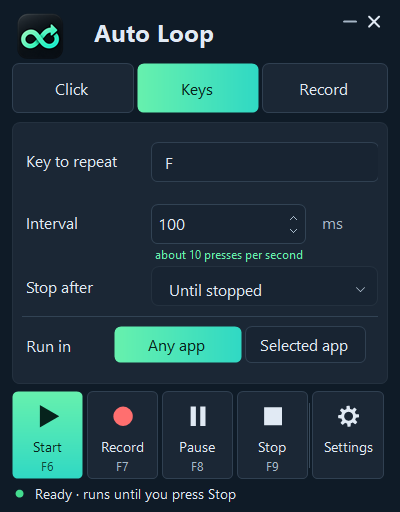
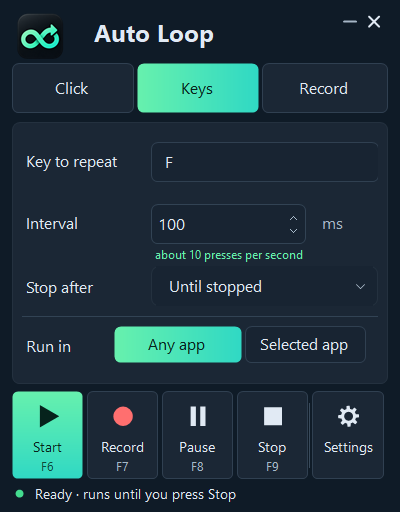
Center text vertically in fields (0.7.2 update)
- Stop after box: no vertical padding, so the unit dropdown (which cannot
  shrink below 40 px) no longer sits up to 7 px low
- Dropdown and button text nudged up 1 px; all fields now within 0.5 px
- Refreshed screenshots

diff --git a/AutoLoop.cs b/AutoLoop.cs
@@ -153,7 +153,7 @@ namespace AutoLoop {
         public bool BorderVisible=true;
         public DarkComboBox(){SetStyle(ControlStyles.UserPaint|ControlStyles.AllPaintingInWmPaint|ControlStyles.OptimizedDoubleBuffer,true);}
         protected override void OnSelectedIndexChanged(EventArgs e){base.OnSelectedIndexChanged(e);Invalidate();}
-        protected override void OnPaint(PaintEventArgs e){using(Brush background=new SolidBrush(Parent==null?BackColor:Parent.BackColor))e.Graphics.FillRectangle(background,ClientRectangle);UiDrawing.Face(e.Graphics,new Rectangle(0,0,Width-1,Height-1),BackColor,BorderVisible?Color.FromArgb(50,67,84):Color.Empty,6);string caption=SelectedIndex<0?"Choose from list":GetItemText(SelectedItem);TextRenderer.DrawText(e.Graphics,caption,Font,new Rectangle(UiScale.Px(9),0,Math.Max(0,Width-UiScale.Px(35)),Height),Enabled?ForeColor:Color.FromArgb(120,135,150),TextFormatFlags.Left|TextFormatFlags.VerticalCenter|TextFormatFlags.EndEllipsis);e.Graphics.SmoothingMode=System.Drawing.Drawing2D.SmoothingMode.AntiAlias;float u=UiScale.Layout;e.Graphics.TranslateTransform(Width-UiScale.Px(13),Height/2);e.Graphics.ScaleTransform(u,u);using(Pen pen=new Pen(Enabled?Color.FromArgb(187,202,217):Color.FromArgb(95,105,118),1.5f)){e.Graphics.DrawLines(pen,new Point[]{new Point(-4,-2),new Point(0,2),new Point(4,-2)});}e.Graphics.ResetTransform();}
+        protected override void OnPaint(PaintEventArgs e){using(Brush background=new SolidBrush(Parent==null?BackColor:Parent.BackColor))e.Graphics.FillRectangle(background,ClientRectangle);UiDrawing.Face(e.Graphics,new Rectangle(0,0,Width-1,Height-1),BackColor,BorderVisible?Color.FromArgb(50,67,84):Color.Empty,6);string caption=SelectedIndex<0?"Choose from list":GetItemText(SelectedItem);TextRenderer.DrawText(e.Graphics,caption,Font,new Rectangle(UiScale.Px(9),-UiScale.Px(1),Math.Max(0,Width-UiScale.Px(35)),Height),Enabled?ForeColor:Color.FromArgb(120,135,150),TextFormatFlags.Left|TextFormatFlags.VerticalCenter|TextFormatFlags.EndEllipsis);e.Graphics.SmoothingMode=System.Drawing.Drawing2D.SmoothingMode.AntiAlias;float u=UiScale.Layout;e.Graphics.TranslateTransform(Width-UiScale.Px(13),Height/2);e.Graphics.ScaleTransform(u,u);using(Pen pen=new Pen(Enabled?Color.FromArgb(187,202,217):Color.FromArgb(95,105,118),1.5f)){e.Graphics.DrawLines(pen,new Point[]{new Point(-4,-2),new Point(0,2),new Point(4,-2)});}e.Graphics.ResetTransform();}
     }
     internal class ActionButton : Button {
         public string Symbol=""; public Color SymbolColor=Color.Empty;
@@ -259,7 +259,7 @@ namespace AutoLoop {
             recordingHost=new Panel{Dock=DockStyle.Fill,Visible=false,Margin=new Padding(0)};recordCount=new Label{Text="Recorded routine · 0 steps",Dock=DockStyle.Top,Height=0,ForeColor=ink,Font=new Font("Segoe UI",10)};events=new ListBox{Dock=DockStyle.Fill,BackColor=field,ForeColor=ink,BorderStyle=BorderStyle.None,IntegralHeight=false,Font=new Font("Segoe UI",14),DrawMode=DrawMode.OwnerDrawFixed,ItemHeight=45};events.DrawItem+=DrawRecordedStep;
             recordingTools=new TableLayoutPanel{Dock=DockStyle.Bottom,Height=54,ColumnCount=4,RowCount=1,Padding=new Padding(0,6,0,2)};recordingTools.RowStyles.Add(new RowStyle(SizeType.Percent,100));for(int i=0;i<4;i++)recordingTools.ColumnStyles.Add(new ColumnStyle(SizeType.Percent,i==0?32f:22.666f));Button clear=ButtonFor("Clear",75);clear.Click+=delegate{if(IsBusy()||recorded.Count==0)return;if(!SelfTestMode&&MessageBox.Show(ModalOwner,"Clear all "+recorded.Count+" recorded steps?","Auto Loop",MessageBoxButtons.YesNo,MessageBoxIcon.Question,MessageBoxDefaultButton.Button2)!=DialogResult.Yes)return;recorded.Clear();UpdateEvents();};Button save=ButtonFor("Save",75);save.Click+=delegate{SaveRoutine();};Button open=ButtonFor("Open",75);open.Click+=delegate{LoadRoutine();};ContextMenuStrip editMenu=new ContextMenuStrip();editMenu.Items.Add("Change delay",null,delegate{EditDelay();});editMenu.Items.Add("Remove selected step",null,delegate{if(!IsBusy()&&events.SelectedIndex>=0){recorded.RemoveAt(events.SelectedIndex);UpdateEvents();}});events.ContextMenuStrip=editMenu;Button testOnce=ButtonFor("Test once",100);testOnce.Click+=delegate{StartCountdown(false,true);};tips.SetToolTip(testOnce,"Play this recording once without changing its repeat or time settings.");Button[] tools={testOnce,clear,save,open};for(int i=0;i<tools.Length;i++){tools[i].Dock=DockStyle.Fill;tools[i].Margin=new Padding(0,0,i==3?0:6,0);tools[i].Font=new Font("Segoe UI",14);recordingTools.Controls.Add(tools[i],i,0);}recordingHost.Controls.Add(events);recordingHost.Controls.Add(recordCount);recordingHost.Controls.Add(recordingTools);
             Panel modeHost=new Panel{Dock=DockStyle.Fill,Margin=new Padding(0)};modeHost.Controls.Add(normalHost);modeHost.Controls.Add(recordingHost);optionGrid.Controls.Add(modeHost,0,0);
-            repeats=Number(0,1000000,10,100);limit=Number(0,86400,0,100);TableLayoutPanel stopRow=new TableLayoutPanel{Dock=DockStyle.Fill,ColumnCount=2,RowCount=1,Margin=new Padding(0),Padding=new Padding(0,0,0,8)};stopRow.RowStyles.Add(new RowStyle(SizeType.Percent,100));stopRow.ColumnStyles.Add(new ColumnStyle(SizeType.Absolute,174));stopRow.ColumnStyles.Add(new ColumnStyle(SizeType.Percent,100));stopRow.Controls.Add(FieldLabel("Stop after"),0,0);stopValue=Number(1,1000000,10,78);stopValue.Dock=DockStyle.Top;stopValue.Margin=new Padding(0,3,7,0);stopRule=StyledCombo(200);stopRule.Dock=DockStyle.Top;stopRule.Items.AddRange(new object[]{"repeats","seconds","Until stopped"});stopRule.SelectedIndex=0;stopRule.Margin=new Padding(0);stopValue.ShowBorder=false;stopValue.ShowSpin=false;stopValue.TextInset=2;stopValue.BackColor=field;stopValue.Margin=new Padding(0);stopValue.Dock=DockStyle.Fill;((DarkComboBox)stopRule).BorderVisible=false;stopRule.BackColor=field;stopRule.Margin=new Padding(0);RoundedPanel unitGroup=new RoundedPanel{Dock=DockStyle.Fill,BackColor=field,Margin=new Padding(0),Padding=new Padding(7,4,7,4)};TableLayoutPanel unitLayout=new TableLayoutPanel{Dock=DockStyle.Fill,ColumnCount=2,RowCount=1,Margin=new Padding(0)};unitLayout.RowStyles.Add(new RowStyle(SizeType.Percent,100));unitLayout.ColumnStyles.Add(new ColumnStyle(SizeType.Absolute,65));unitLayout.ColumnStyles.Add(new ColumnStyle(SizeType.Percent,100));unitLayout.Controls.Add(stopValue,0,0);unitLayout.Controls.Add(stopRule,1,0);unitGroup.Controls.Add(unitLayout);stopRow.Controls.Add(unitGroup,1,0);stopRule.SelectedIndexChanged+=delegate{SetStopMode();};stopValue.ValueChanged+=delegate{SyncStopValues();};optionGrid.Controls.Add(stopRow,0,1);
+            repeats=Number(0,1000000,10,100);limit=Number(0,86400,0,100);TableLayoutPanel stopRow=new TableLayoutPanel{Dock=DockStyle.Fill,ColumnCount=2,RowCount=1,Margin=new Padding(0),Padding=new Padding(0,0,0,8)};stopRow.RowStyles.Add(new RowStyle(SizeType.Percent,100));stopRow.ColumnStyles.Add(new ColumnStyle(SizeType.Absolute,174));stopRow.ColumnStyles.Add(new ColumnStyle(SizeType.Percent,100));stopRow.Controls.Add(FieldLabel("Stop after"),0,0);stopValue=Number(1,1000000,10,78);stopValue.Dock=DockStyle.Top;stopValue.Margin=new Padding(0,3,7,0);stopRule=StyledCombo(200);stopRule.Dock=DockStyle.Top;stopRule.Items.AddRange(new object[]{"repeats","seconds","Until stopped"});stopRule.SelectedIndex=0;stopRule.Margin=new Padding(0);stopValue.ShowBorder=false;stopValue.ShowSpin=false;stopValue.TextInset=2;stopValue.BackColor=field;stopValue.Margin=new Padding(0);stopValue.Dock=DockStyle.Fill;((DarkComboBox)stopRule).BorderVisible=false;stopRule.BackColor=field;stopRule.Margin=new Padding(0);RoundedPanel unitGroup=new RoundedPanel{Dock=DockStyle.Fill,BackColor=field,Margin=new Padding(0),Padding=new Padding(7,0,7,0)}; /* no vertical padding: the dropdown cannot shrink, so padding pushed its text below centre */TableLayoutPanel unitLayout=new TableLayoutPanel{Dock=DockStyle.Fill,ColumnCount=2,RowCount=1,Margin=new Padding(0)};unitLayout.RowStyles.Add(new RowStyle(SizeType.Percent,100));unitLayout.ColumnStyles.Add(new ColumnStyle(SizeType.Absolute,65));unitLayout.ColumnStyles.Add(new ColumnStyle(SizeType.Percent,100));unitLayout.Controls.Add(stopValue,0,0);unitLayout.Controls.Add(stopRule,1,0);unitGroup.Controls.Add(unitLayout);stopRow.Controls.Add(unitGroup,1,0);stopRule.SelectedIndexChanged+=delegate{SetStopMode();};stopValue.ValueChanged+=delegate{SyncStopValues();};optionGrid.Controls.Add(stopRow,0,1);
             Panel targetPanel=new Panel{Dock=DockStyle.Bottom,BackColor=card,Height=88,Padding=new Padding(0),Margin=new Padding(0)};configuration.Controls.Add(targetPanel);compactRoot.SetRowSpan(configuration,2);targetPanel.Paint+=delegate(object sender,PaintEventArgs e){using(Pen line=new Pen(Color.FromArgb(50,67,84)))e.Graphics.DrawLine(line,0,4,targetPanel.Width,4);};
             targetPanel.Controls.Add(new Label{Text="Run in",AutoSize=true,Location=new Point(0,31),ForeColor=ink});
             Button anyApp=ButtonFor("Any app",173),selectedApp=ButtonFor("Selected app",163);anyApp.Location=new Point(125,19);selectedApp.Location=new Point(302,19);anyApp.Height=selectedApp.Height=50;targetPanel.Controls.Add(anyApp);targetPanel.Controls.Add(selectedApp);

diff --git a/Theme.cs b/Theme.cs
@@ -39,7 +39,7 @@ namespace AutoLoop {
         protected override void OnMouseEnter(EventArgs e){hover=true;Invalidate();base.OnMouseEnter(e);}
         protected override void OnMouseLeave(EventArgs e){hover=false;Invalidate();base.OnMouseLeave(e);}
         protected override void OnPaintBackground(PaintEventArgs e){using(Brush background=new SolidBrush(Parent==null?BackColor:Parent.BackColor))e.Graphics.FillRectangle(background,ClientRectangle);}
-        protected override void OnPaint(PaintEventArgs e){using(Brush background=new SolidBrush(Parent==null?BackColor:Parent.BackColor))e.Graphics.FillRectangle(background,ClientRectangle);Color face=hover?ControlPaint.Light(BackColor,0.06f):BackColor;if(brand)UiDrawing.BrandFace(e.Graphics,new Rectangle(0,0,Width-1,Height-1),6,false);else UiDrawing.Face(e.Graphics,new Rectangle(0,0,Width-1,Height-1),face,Color.FromArgb(48,64,81),6);TextFormatFlags alignment=TextAlign==ContentAlignment.MiddleLeft?TextFormatFlags.Left:TextFormatFlags.HorizontalCenter;int inset=UiScale.Layout>1f?UiScale.Px(6):10;TextRenderer.DrawText(e.Graphics,Text,Font,new Rectangle(inset,1,Width-2*inset,Height-2),Enabled||brand?ForeColor:Color.FromArgb(120,135,150),alignment|TextFormatFlags.VerticalCenter|TextFormatFlags.EndEllipsis);}
+        protected override void OnPaint(PaintEventArgs e){using(Brush background=new SolidBrush(Parent==null?BackColor:Parent.BackColor))e.Graphics.FillRectangle(background,ClientRectangle);Color face=hover?ControlPaint.Light(BackColor,0.06f):BackColor;if(brand)UiDrawing.BrandFace(e.Graphics,new Rectangle(0,0,Width-1,Height-1),6,false);else UiDrawing.Face(e.Graphics,new Rectangle(0,0,Width-1,Height-1),face,Color.FromArgb(48,64,81),6);TextFormatFlags alignment=TextAlign==ContentAlignment.MiddleLeft?TextFormatFlags.Left:TextFormatFlags.HorizontalCenter;int inset=UiScale.Layout>1f?UiScale.Px(6):10;TextRenderer.DrawText(e.Graphics,Text,Font,new Rectangle(inset,0,Width-2*inset,Height-2),Enabled||brand?ForeColor:Color.FromArgb(120,135,150),alignment|TextFormatFlags.VerticalCenter|TextFormatFlags.EndEllipsis);}
     }
     internal class IconButton : RoundedButton {
         public string IconKind="settings";public bool Bare;

diff --git a/CHANGELOG.md b/CHANGELOG.md
@@ -8,6 +8,7 @@ A polished look; same size, layout and behavior.
 - The window now shows the **real Auto Loop logo**, the same artwork as the EXE icon, tray icon and GitHub banner.
 - The selected tab, the selected "Any app"/"Selected app" choice and the **Start** button use the logo's mint-to-teal gradient, so the main action stands out.
 - **New countdown**: a smooth progress ring with a soft shadow that drains each second around the number, which pops in. Its edges are fully smooth and clicks still pass through it.
+- Text in the Stop after box, the dropdowns and the key box is now centered vertically (the Stop after unit sat up to 7 px low).
 - 77 built-in checks (up from 76).
 
 ## 0.7.1 (2026-11-18)
